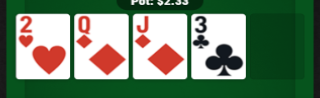
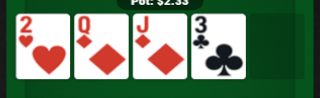
Cards rendered via canvas ctx.drawImage instead of HTML img tags
- Board, hero, and seat cards now use <canvas> elements
- ctx.drawImage composites images matching PS's Cocos2d approach
- Rounded corner clipping via canvas path
- SSIM unchanged at 0.596 (bottleneck is card image content, not rendering method)
- Need PS CDP access to capture cards at exact display resolution

Changed region(s): [[0.25, 0.1224, 0.7812, 0.1531], [0.0625, 0.1224, 0.2188, 0.1531]]

diff --git a/client/table.js b/client/table.js
@@ -492,7 +492,29 @@ function cardImgSrc(card) {
 
 function cardHtml(card) {
   if (!card) return '<span class="card empty-slot"></span>';
-  return `<span class="card" style="width:54px;height:78px;background:none"><img src="${cardImgSrc(card)}" style="width:54px;height:78px;display:block;border-radius:4px"></span>`;
+  // Render card on a mini canvas for PS-matched compositing
+  const cw = 54, ch = 78;
+  const id = 'cc_' + card + '_' + Math.random().toString(36).substr(2, 5);
+  setTimeout(() => {
+    const cvs = document.getElementById(id);
+    if (!cvs) return;
+    const ctx = cvs.getContext('2d');
+    const img = new Image();
+    img.onload = () => {
+      ctx.clearRect(0, 0, cw, ch);
+      // Rounded rect clip
+      const r = 4;
+      ctx.beginPath();
+      ctx.moveTo(r, 0); ctx.lineTo(cw-r, 0); ctx.quadraticCurveTo(cw, 0, cw, r);
+      ctx.lineTo(cw, ch-r); ctx.quadraticCurveTo(cw, ch, cw-r, ch);
+      ctx.lineTo(r, ch); ctx.quadraticCurveTo(0, ch, 0, ch-r);
+      ctx.lineTo(0, r); ctx.quadraticCurveTo(0, 0, r, 0);
+      ctx.closePath(); ctx.clip();
+      ctx.drawImage(img, 0, 0, cw, ch);
+    };
+    img.src = cardImgSrc(card);
+  }, 0);
+  return `<canvas id="${id}" class="card" width="${cw}" height="${ch}" style="width:${cw}px;height:${ch}px;border-radius:4px;box-shadow:0 1px 4px rgba(0,0,0,0.3)"></canvas>`;
 }
 
 function facedownCardHtml() {
@@ -501,12 +523,42 @@ function facedownCardHtml() {
 
 function seatCardHtml(card) {
   if (!card) return '';
-  return `<span class="card sm" style="width:28px;height:39px;background:none"><img src="${cardImgSrc(card)}" style="width:28px;height:39px;display:block"></span>`;
+  const cw = 28, ch = 39;
+  const id = 'sc_' + card + '_' + Math.random().toString(36).substr(2, 5);
+  setTimeout(() => {
+    const cvs = document.getElementById(id);
+    if (!cvs) return;
+    const ctx = cvs.getContext('2d');
+    const img = new Image();
+    img.onload = () => { ctx.drawImage(img, 0, 0, cw, ch); };
+    img.src = cardImgSrc(card);
+  }, 0);
+  return `<canvas id="${id}" class="card sm" width="${cw}" height="${ch}" style="width:${cw}px;height:${ch}px"></canvas>`;
 }
 
 function heroCardHtml(card) {
   if (!card) return '';
-  return `<span class="card hero-card" style="width:58px;height:82px;background:none"><img src="${cardImgSrc(card)}" style="width:58px;height:82px;display:block;border-radius:4px"></span>`;
+  const cw = 58, ch = 82;
+  const id = 'hc_' + card + '_' + Math.random().toString(36).substr(2, 5);
+  setTimeout(() => {
+    const cvs = document.getElementById(id);
+    if (!cvs) return;
+    const ctx = cvs.getContext('2d');
+    const img = new Image();
+    img.onload = () => {
+      ctx.clearRect(0, 0, cw, ch);
+      const r = 5;
+      ctx.beginPath();
+      ctx.moveTo(r, 0); ctx.lineTo(cw-r, 0); ctx.quadraticCurveTo(cw, 0, cw, r);
+      ctx.lineTo(cw, ch-r); ctx.quadraticCurveTo(cw, ch, cw-r, ch);
+      ctx.lineTo(r, ch); ctx.quadraticCurveTo(0, ch, 0, ch-r);
+      ctx.lineTo(0, r); ctx.quadraticCurveTo(0, 0, r, 0);
+      ctx.closePath(); ctx.clip();
+      ctx.drawImage(img, 0, 0, cw, ch);
+    };
+    img.src = cardImgSrc(card);
+  }, 0);
+  return `<canvas id="${id}" class="card hero-card" width="${cw}" height="${ch}" style="width:${cw}px;height:${ch}px;border-radius:5px;box-shadow:2px 3px 10px rgba(0,0,0,0.7)"></canvas>`;
 }
 
 // Canvas mode: use ?canvas=1 in URL to enable
